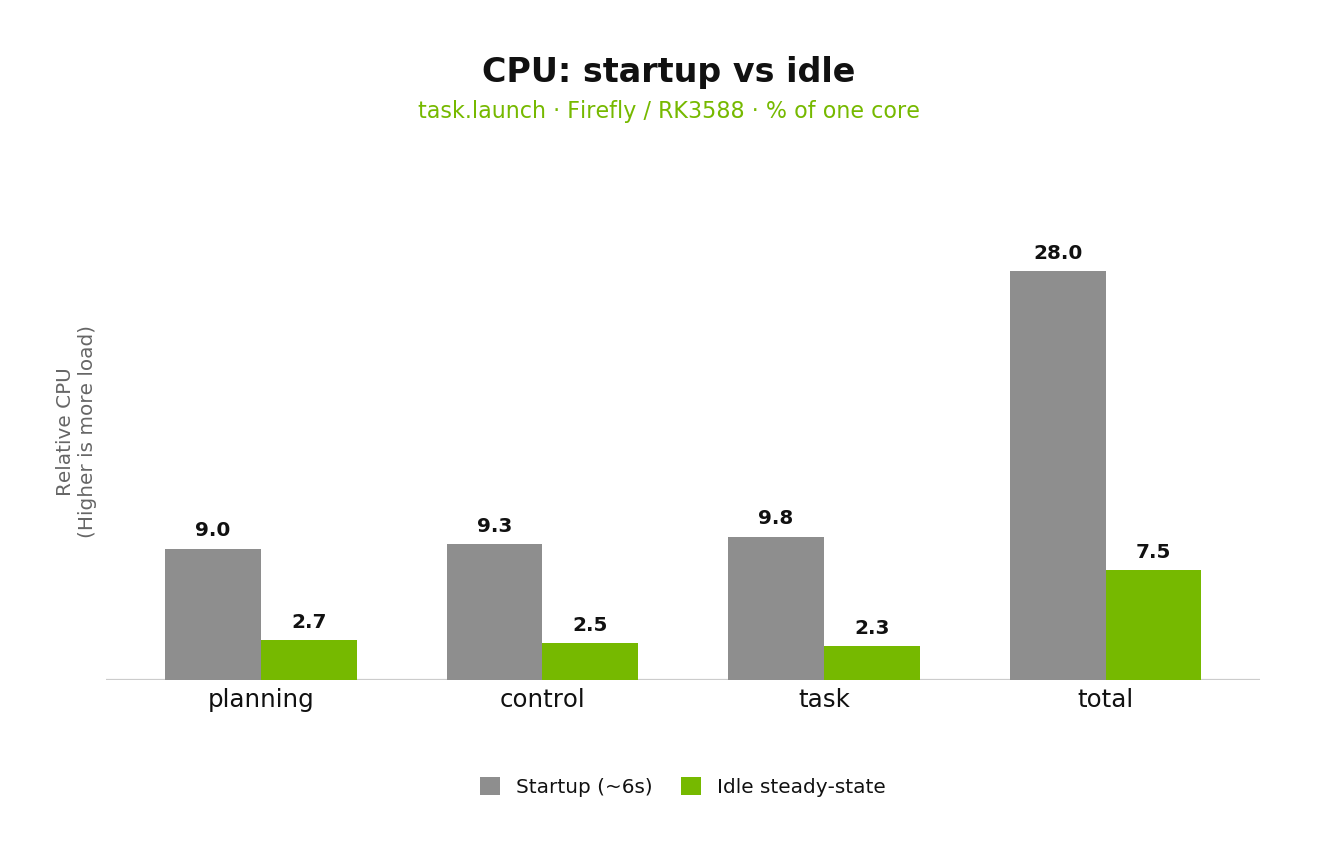
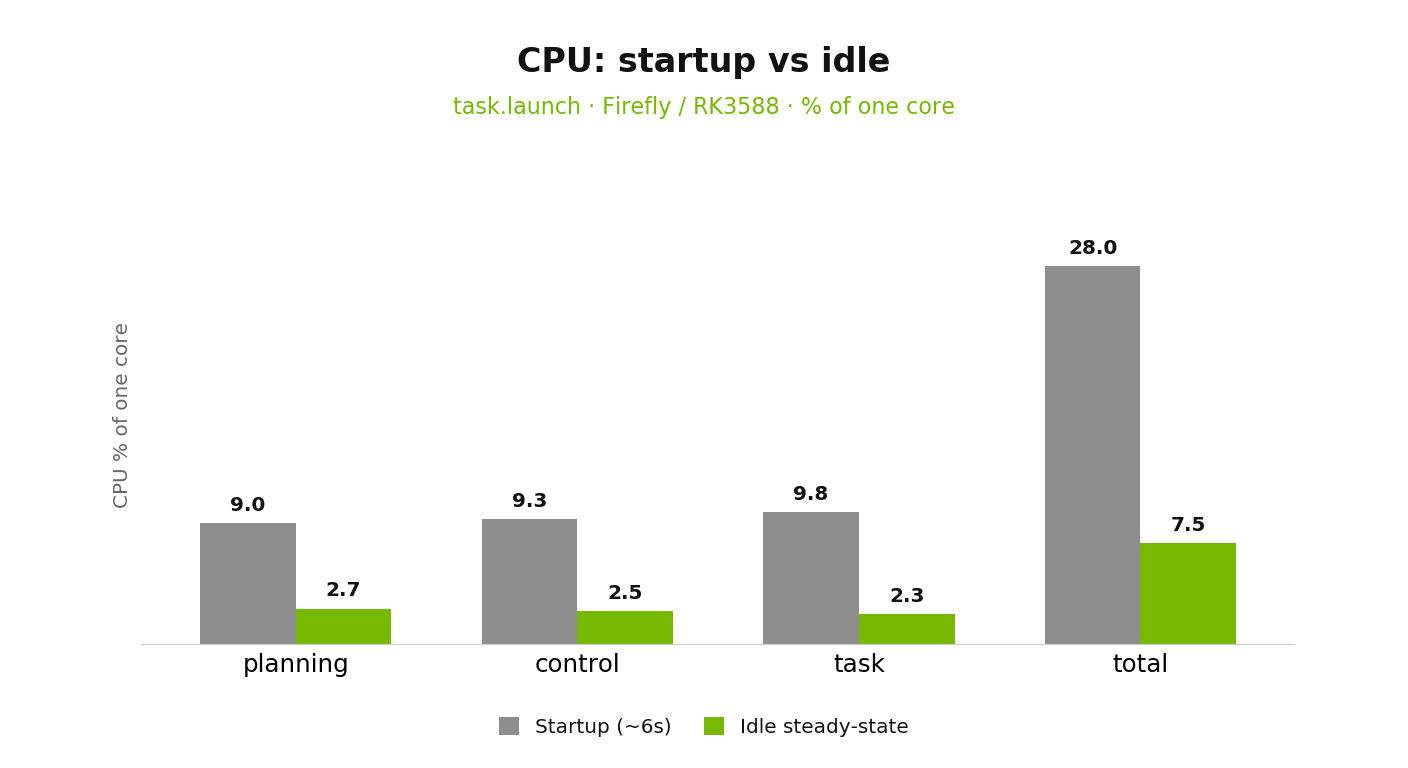
[feat] update docs

diff --git a/docs/source/custom.css b/docs/source/custom.css
@@ -2750,3 +2750,47 @@
     margin-left: auto !important;
     margin-right: auto !important;
 }
+
+/* 板端 benchmark 图九宫格 / 宫格画廊 */
+.rst-content .bench-gallery {
+    display: grid;
+    grid-template-columns: repeat(3, minmax(0, 1fr));
+    gap: 0.75rem 0.85rem;
+    margin: 0.75rem 0 1.25rem;
+    padding: 0;
+    list-style: none;
+}
+
+.rst-content .bench-gallery > li {
+    margin: 0;
+    padding: 0.45rem 0.45rem 0.55rem;
+    background: #fff;
+    border: 1px solid #e0e0e0;
+    box-sizing: border-box;
+    text-align: center;
+}
+
+.rst-content .bench-gallery > li img {
+    display: block;
+    width: 100%;
+    height: auto;
+    max-height: 160px;
+    object-fit: contain;
+    margin: 0 auto 0.35rem;
+}
+
+.rst-content .bench-gallery > li span {
+    display: block;
+    font-size: 0.78rem;
+    line-height: 1.35;
+    color: #666;
+}
+
+@media (max-width: 720px) {
+    .rst-content .bench-gallery {
+        grid-template-columns: 1fr;
+    }
+    .rst-content .bench-gallery > li img {
+        max-height: 220px;
+    }
+}

diff --git a/docs/source/04_Running/09_board_task_launch_benchmark.md b/docs/source/04_Running/09_board_task_launch_benchmark.md
@@ -1,40 +1,77 @@
 (running-board-task-launch-benchmark)=
 # 9. 板端部署资源报告：`task.launch`
 
-Firefly / RK3588（aarch64）上空闲栈实测（**无 map / 无 NavigateToPose**）。
+Firefly / RK3588 上空闲栈实测（**无 map / 无 NavigateToPose**）。
 
 ```bash
 source /usr/local/share/autonomy/setup.bash
 autolink launch start task.launch
 ```
 
-> **2026-09-20** · Autonomy `feature/library` · 前缀 `/usr/local`  
-> 有 map + 导航时 CPU / 延时会升高，按 §9.6 复测。
+| 项 | 值 |
+|----|-----|
+| 日期 | 2026-09-20 · Autonomy `feature/library` · `/usr/local` |
+| 场景 | 空闲栈；有 map + 导航时按 §9.7 复测 |
 
 ```{admonition} 结论
 :class: tip
 
-空闲三进程合计约 **7–8% 单核 CPU**、**360–370 MiB RSS**（≈ 板载 7.7 GiB 的 **4.5–5%**），拉起 **亚秒级**；**无 Swap**，勿与大 `-j` 编译抢内存。
+空闲三进程合计约 **7–8% 单核 CPU**、**360–370 MiB RSS**（≈ 板载 **4.5–5%**），拉起 **亚秒级**；**无 Swap**。
 ```
 
-![Idle task.launch snapshot](./images/summary_dashboard.png)
+| 指标 | 数值 | 备注 |
+|------|------|------|
+| 稳态 CPU | ≈ **7–8%** 单核 | ≈ 1% @ 8 核 |
+| 启动 CPU | ≈ **28%** 单核 | ~6 s 回落 ≈ **3.7×** |
+| RSS / PSS | ≈ **360–370** / 估 **120 MiB** | RSS 作 OOM；PSS 更真实 |
+| 线程 | ≈ **110+** | 45 / 33 / 32 |
+| 拉起 / Swap | **亚秒** / **0** | — |
+
+## 9.0 图示九宫格
+
+```{figure} ./images/benchmark_jiugongge.png
+:alt: task.launch 3x3 gallery
+:align: center
+:width: 96%
+
+**3×3 九宫格**：KPI · 进程树 · 部署 · CPU · vs Nav2 · RSS · 板载占比 · 线程 · 启动时序。
+```
+
+```{figure} ./images/benchmark_gallery.png
+:alt: task.launch full gallery
+:align: center
+:width: 96%
+
+**全量宫格（3×4）**：上图九格 + vs Nav2 CPU、RSS vs PSS（共 11 张）。
+```
+
+| # | 图 | 要点 |
+|---|-----|------|
+| 1 | KPI | 稳态/启动 CPU、RSS、线程、拉起、Swap |
+| 2 | 进程树 | autolink + 三进程 + SHM |
+| 3 | 部署 | NFS → build → `/usr/local` |
+| 4 | CPU | 28% → 7.5%（≈3.7×） |
+| 5–6 | vs Nav2 | CPU 约 15–20×；PSS 接近；3 vs 15 |
+| 7–8 | 内存 | RSS 合计 ~365 MiB；占板载 4.7% |
+| 9 | RSS/PSS | task 128 vs ~50 MiB |
+| 10 | 线程 | 32 / 33 / **45** |
+| 11 | 启动 | +0…+600 ms SHM ready |
 
 ---
 
 ## 9.1 被测对象
 
-![task.launch process tree](./images/process_topology.png)
+| 模块 | 二进制 | 作用 | RSS | 线程 |
+|------|--------|------|-----|------|
+| planning | `autonomy.planning` | 全局规划 | 111–113 MiB | 32 |
+| control | `autonomy.control` | 局部跟踪 | 114–117 MiB | 33 |
+| task | `autonomy.task` | TaskServer + BT | 124–128 MiB | 45 |
+| 父进程 | `autolink launch` | 监督 / respawn | 10–11 MiB | 1 |
 
-| 模块 | 二进制 | 作用 |
-|------|--------|------|
-| planning | `autonomy.planning` | 全局规划 |
-| control | `autonomy.control` | 局部跟踪 |
-| task | `autonomy.task` | TaskServer + BT |
-| 父进程 | `autolink launch` | 拉起 / 监督 / respawn |
-
-部署路径：NFS 源码 → 板端本地 `build` → `cmake --install` 到 `/usr/local` → `source setup.bash`。
-
-![On-board deploy path](./images/deploy_path.png)
+| 步骤 | 位置 | 说明 |
+|------|------|------|
+| 1–2 | 开发机 → 板端 | NFS 源码 → `~/autonomy_ws/src` |
+| 3–4 | 板端 | 本地 `build` → `/usr/local` + `setup.bash` |
 
 ---
 
@@ -42,16 +79,16 @@ autolink launch start task.launch
 
 | 项 | 值 |
 |----|-----|
-| 主机 | `firefly` · RK3588 · 8 逻辑核 · `aarch64` |
+| 主机 | `firefly` · RK3588 · 8 核 · `aarch64` |
 | 内核 / OS | `5.10.160-rt78-preempt` · Ubuntu 22.04 |
 | 内存 | ≈ **7.7 GiB** · **Swap = 0** |
-| CPU 含义 | 进程 **单核 %**（与 `top` 一致；8 核上 100% ≈ 1 核） |
+| CPU 含义 | 进程 **单核 %**（`top` 同义） |
 
 | 指标 | 方法 |
 |------|------|
-| 瞬时 CPU / RSS | `ps -eo pid,%cpu,%mem,rss,vsz,nlwp,etime,cmd` |
-| 稳态 CPU | `/proc/<pid>/stat`：`utime+stime` 在 **10 s** 窗口差分 |
-| RSS / HWM / PSS | `status` → `VmRSS`/`VmHWM`；`smaps_rollup` → `Pss` |
+| CPU / RSS 瞬时 | `ps …` |
+| 稳态 CPU | `/proc/<pid>/stat` 10 s jiffies 差分 |
+| RSS / HWM / PSS | `status` / `smaps_rollup` |
 | 启动时序 | `autolink` 日志时间戳 |
 
 ```bash
@@ -66,48 +103,71 @@ autolink launch stop
 
 ## 9.3 CPU
 
-![CPU startup vs idle](./images/cpu_transient_vs_steady.png)
-
-灰 = 启动约 6 s；绿 = 空闲稳态。合计约 **28% → 7.5%**（约 **3.7×** 回落）。
-
 | 进程 | 启动 ~6 s | 空闲稳态 |
 |------|----------|----------|
 | `autonomy.task` | ≈ 9.8% | ≈ 2.2–2.4% |
 | `autonomy.control` | ≈ 9.3% | ≈ 2.5% |
 | `autonomy.planning` | ≈ 9.0% | ≈ 2.5–2.8% |
-| **合计** | ≈ **28%** 单核 | ≈ **7–8%** 单核 |
+| **合计** | ≈ **28%** | ≈ **7–8%**（≈ **3.7×**） |
 
-空闲约 **0.08 核**，余量充足；有 map + `NavigateToPose` 时 planning / control 会升至数十 % 单核。整机 load 含厂商后台，勿只看 autonomy。
+| 解读 | |
+|------|--|
+| 空闲 / 启动 @ 8 核 | ≈ 1% / ≈ 3.5% |
+| 有导航目标 | planning / control 升至数十 % 单核 |
+| 整机 load | 含厂商后台 |
 
 ---
 
-## 9.4 内存与线程
+## 9.4 与 ROS 2 Nav2 对照
 
-![RSS by process](./images/memory_rss_by_process.png)
+| 来源 | 平台 · 工况 | 文献 |
+|------|-------------|------|
+| Nav2 | Pi 4 · Gazebo 稳态导航 | [arXiv:2305.09933](https://arxiv.org/abs/2305.09933) Table I |
+| Autonomy | Firefly · 空闲无 map | 本文 |
+| 社区 | Pi 4 · Nav2 CPU 打满 | [Robotics SE](https://robotics.stackexchange.com/questions/114197/nav2-overloading-raspberry-pi-cpu) |
 
-![Share of onboard RAM](./images/memory_board_share.png)
+| 维度 | Nav2 多进程 | Nav2 组合 | Autonomy 空闲 |
+|------|-------------|-----------|---------------|
+| CPU % 单核 | **154.3** | **110.5** | **7–8** |
+| PSS MiB | **116.6** | **77.8** | 估 **118** |
+| RSS MiB | — | — | **360–370** |
+| 节点/进程 | **15** | 单容器 | **3** |
+| 拉起 | Lifecycle（秒级常见） | 同左 | **亚秒** |
+
+> **非同机同工况**；正式 A/B 需同板 + 同图 + 同 `NavigateToPose`。
+
+---
+
+## 9.5 内存与线程
 
 | 进程 | RSS | HWM | 线程 |
 |------|-----|-----|------|
-| `autonomy.task` | ≈ 124–128 MiB | ≈ 128 MiB | **45** |
-| `autonomy.control` | ≈ 114–117 MiB | ≈ 117 MiB | **33** |
-| `autonomy.planning` | ≈ 111–113 MiB | ≈ 113 MiB | **32** |
-| `autolink launch` | ≈ 10–11 MiB | ≈ 11 MiB | 1 |
-| **合计** | ≈ **360–370 MiB** | — | ≈ **110+** |
+| `autonomy.task` | 124–128 MiB | 128 MiB | **45** |
+| `autonomy.control` | 114–117 MiB | 117 MiB | **33** |
+| `autonomy.planning` | 111–113 MiB | 113 MiB | **32** |
+| `autolink launch` | 10–11 MiB | 11 MiB | 1 |
+| **合计** | **360–370 MiB** | — | **110+** |
 
-![RSS vs PSS](./images/memory_rss_vs_pss.png)
+| 占比 | 数值 |
+|------|------|
+| MemTotal | ≈ **7.7 GiB** |
+| task.launch RSS | ≈ **0.36 GiB**（**4.7%**） |
+| Swap | **0** |
 
-RSS 加总偏悲观（共享 `.so` 重复计），作 OOM 余量；PSS 更接近真实增量（`task` PSS ≈ 42–66 MiB）。
+| 文件 | 约大小 |
+|------|--------|
+| `autolink` / `libautolink.so` | 2.4 / 10 MiB |
+| `libautonomy_task.so` | ≈ 25 MiB |
+| `ldd autonomy.task` | **260+**（需 `setup.bash`） |
 
-![Threads per process](./images/threads_by_process.png)
-
-安装体积量级：`libautonomy_task.so` ≈ 25 MiB，`libautolink.so` ≈ 10 MiB；`ldd autonomy.task` 依赖 **260+**，需 `setup.bash` 含 `/usr/local/lib` 与 ROS lib。无 Swap：编译用 `-j1/-j2`。
+| 风险 | 建议 |
+|------|------|
+| 无 Swap | 编译 `-j1/-j2` |
+| RSS 爬升 | 查地图 / costmap / 泄漏 |
 
 ---
 
-## 9.5 启动时序
-
-![Startup timeline](./images/startup_timeline.png)
+## 9.6 启动时序
 
 | 相对时间 | 事件 |
 |----------|------|
@@ -115,22 +175,29 @@ RSS 加总偏悲观（共享 `.so` 重复计），作 OOM 余量；PSS 更接近
 | ~80 / 120 / 160 ms | planning / control / task Start OK |
 | ~600 ms | SHM discovery（百余 channel） |
 
-进程拉起 **亚秒级**；导航就绪仍需 map + TF。无 map 时的 `no map received` 是 costmap 告警，不是 launch 卡顿，此时勿测规划/控制延时。
-
-有图后建议补测：Goal→首条 path、控制周期、BT tick。
-
----
-
-## 9.6 复测清单
-
-1. `source setup.bash` → `autolink launch start task.launch`，等 ≥ 30 s  
-2. 记录 `ps` / `smaps_rollup` / 10 s CPU  
-3. 加载 map + TF，再采 60 s；下发 `NavigateToPose`，记峰值与 goal→path  
-4. `autolink launch stop`，确认无残留 `autonomy.*`（勿 `pkill -f` 误杀 shell）
+| 结论 | |
+|------|--|
+| 进程拉起 | **亚秒级**；导航就绪仍需 map + TF |
+| `no map received` | costmap 告警，非 launch 卡顿 |
+| 有图后补测 | Goal→path、控制周期、BT tick |
 
 ---
 
-## 9.7 相关文档
+## 9.7 复测清单
 
-- [§2 快速运行](02_quickstart.md) · [§3 多进程栈](03_autonomy_process.md)
-- [环境 / setup.bash](../02_Installation/07_environment.md) · [板端构建安装](../02_Installation/09_embedded_board.md)
+| # | 步骤 | 记录 |
+|---|------|------|
+| 1 | `setup.bash` → `start task.launch`，≥30 s | — |
+| 2 | 采集 | `ps` / `smaps` / 10 s CPU |
+| 3 | map + TF，60 s | 稳态 |
+| 4 | `NavigateToPose` | 峰值、goal→path |
+| 5 | `launch stop` | 无残留（勿 `pkill -f`） |
+
+---
+
+## 9.8 相关文档
+
+| 文档 | 链接 |
+|------|------|
+| 快速运行 / 多进程栈 | [§2](02_quickstart.md) · [§3](03_autonomy_process.md) |
+| 环境 / 板端安装 | [安装 §7](../02_Installation/07_environment.md) · [§9](../02_Installation/09_embedded_board.md) |
